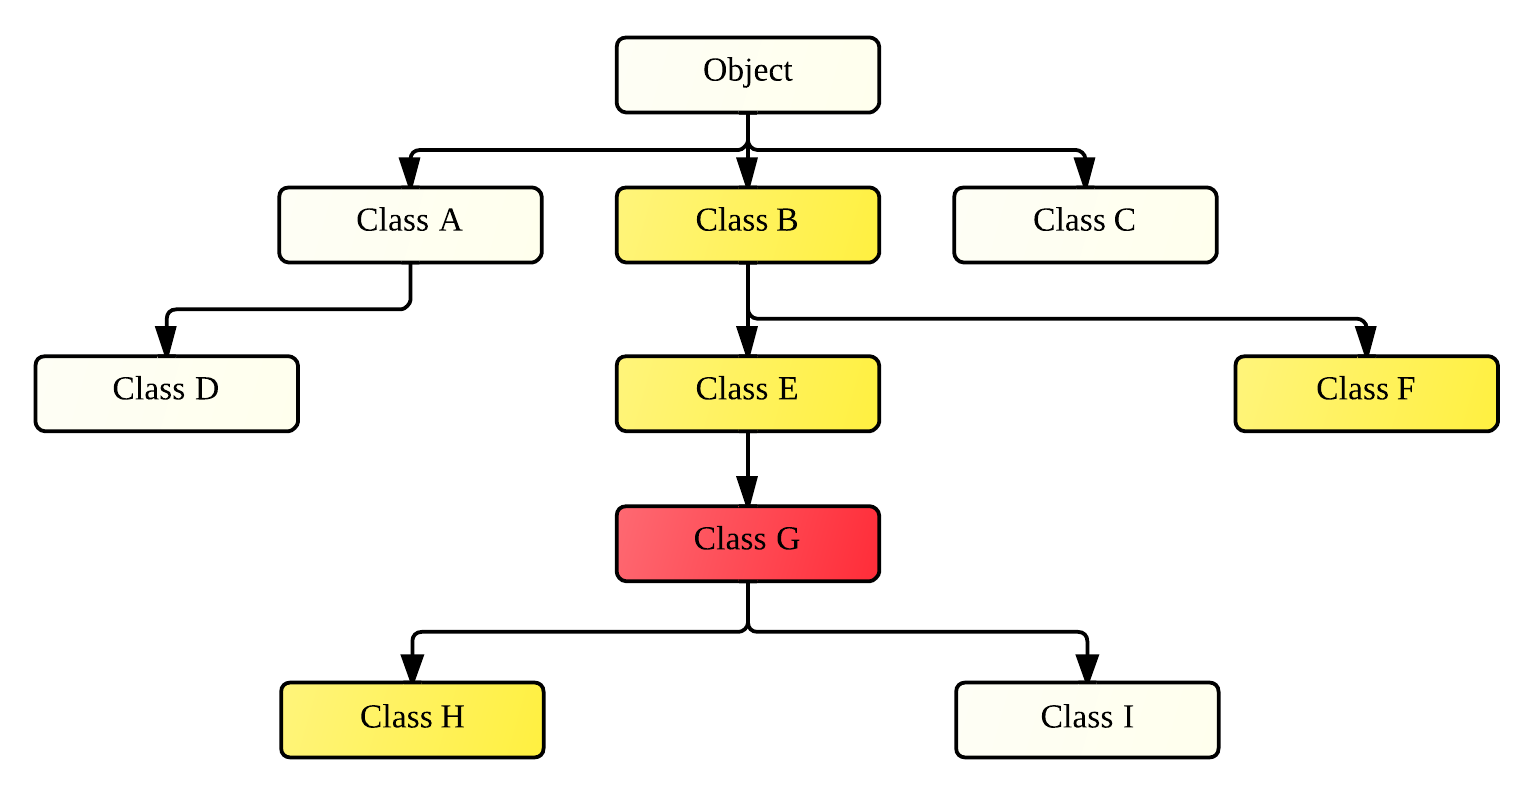
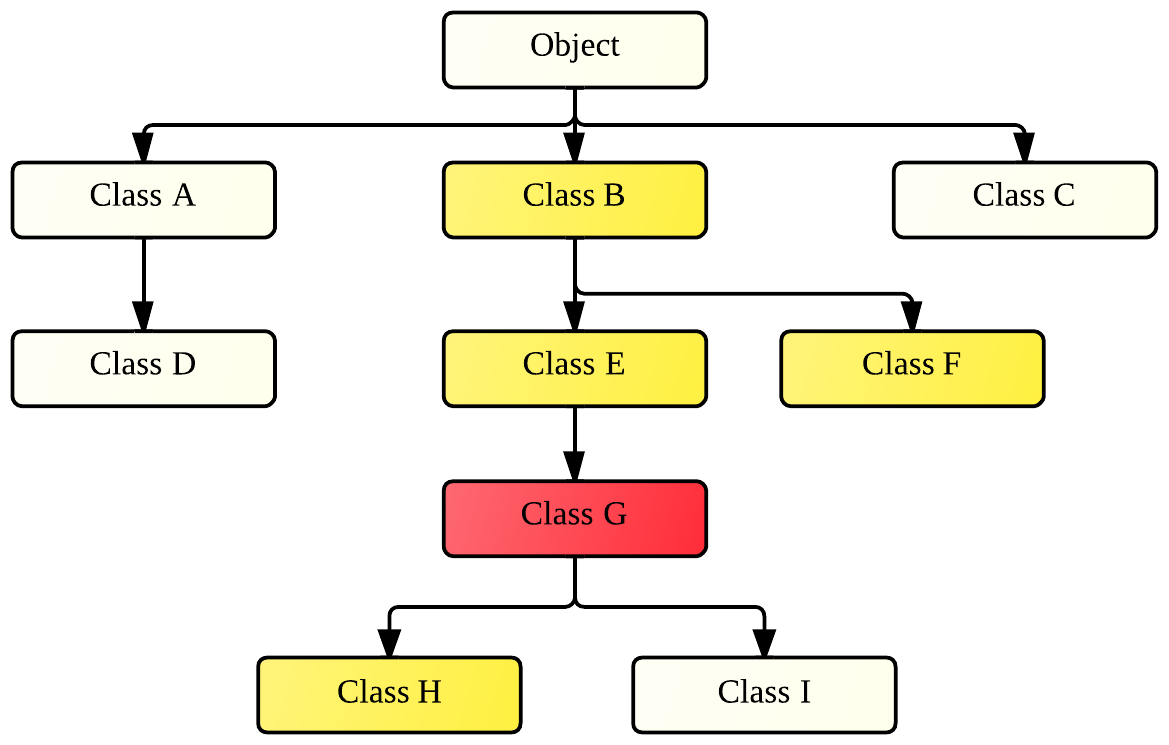
Nicer example class hierarchy figure

Changed region(s): [[0.0, 0.0, 1.0, 0.5557], [0.1848, 0.6174, 0.8007, 0.9879], [0.3695, 0.3705, 0.9855, 0.5557]]

diff --git a/diss.tex b/diss.tex
@@ -457,8 +457,10 @@ Deciding the destination of a method call is simplest in the case of a \verb$-di
 
 Only slightly more complicated is the case of a \verb$-static$ call. The reason being that the method might not be implemented directly in the referenced class, but rather inherited from the parent. Checking that the referenced class is internal is thus insufficient. Dexter must check that this class indeed implements a method of given signature and if not, recursively explore the parent of the class. 
 
-\begin{figure}[h]
-	\includegraphics[width=\textwidth]{figs/fig_virtual_call_tree.png}
+\begin{figure}
+	\centerline{	
+		\includegraphics[width=0.7\textwidth]{figs/fig_virtual_call_tree.png}
+	}
 	\caption{Example class hierarchy}
 	\label{fig:TaintPropagation_DestDecision_ClassHierarchy}
 \end{figure}
